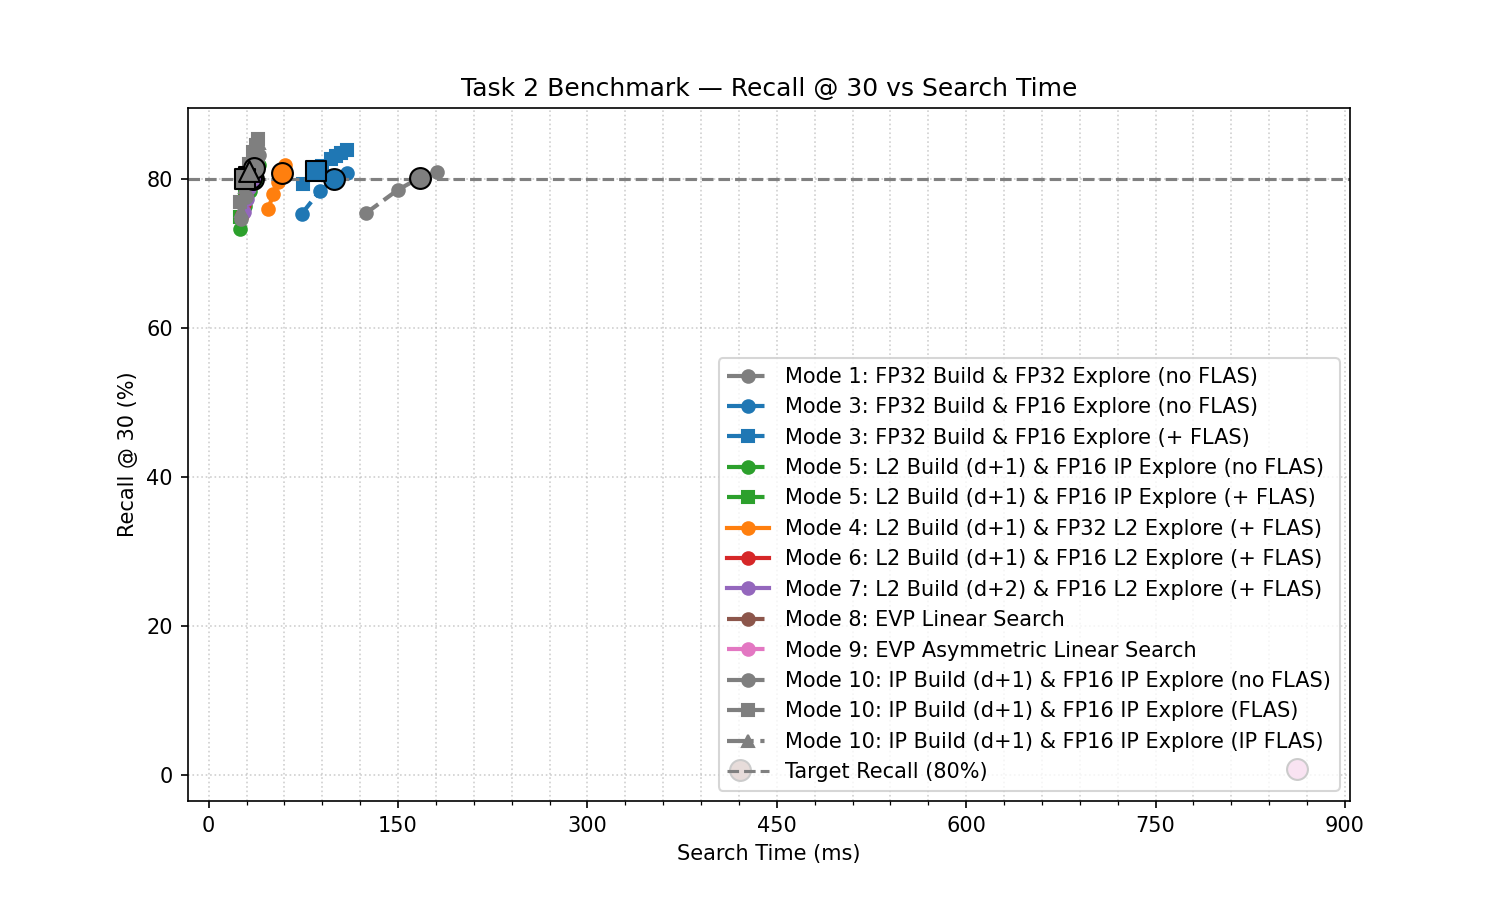
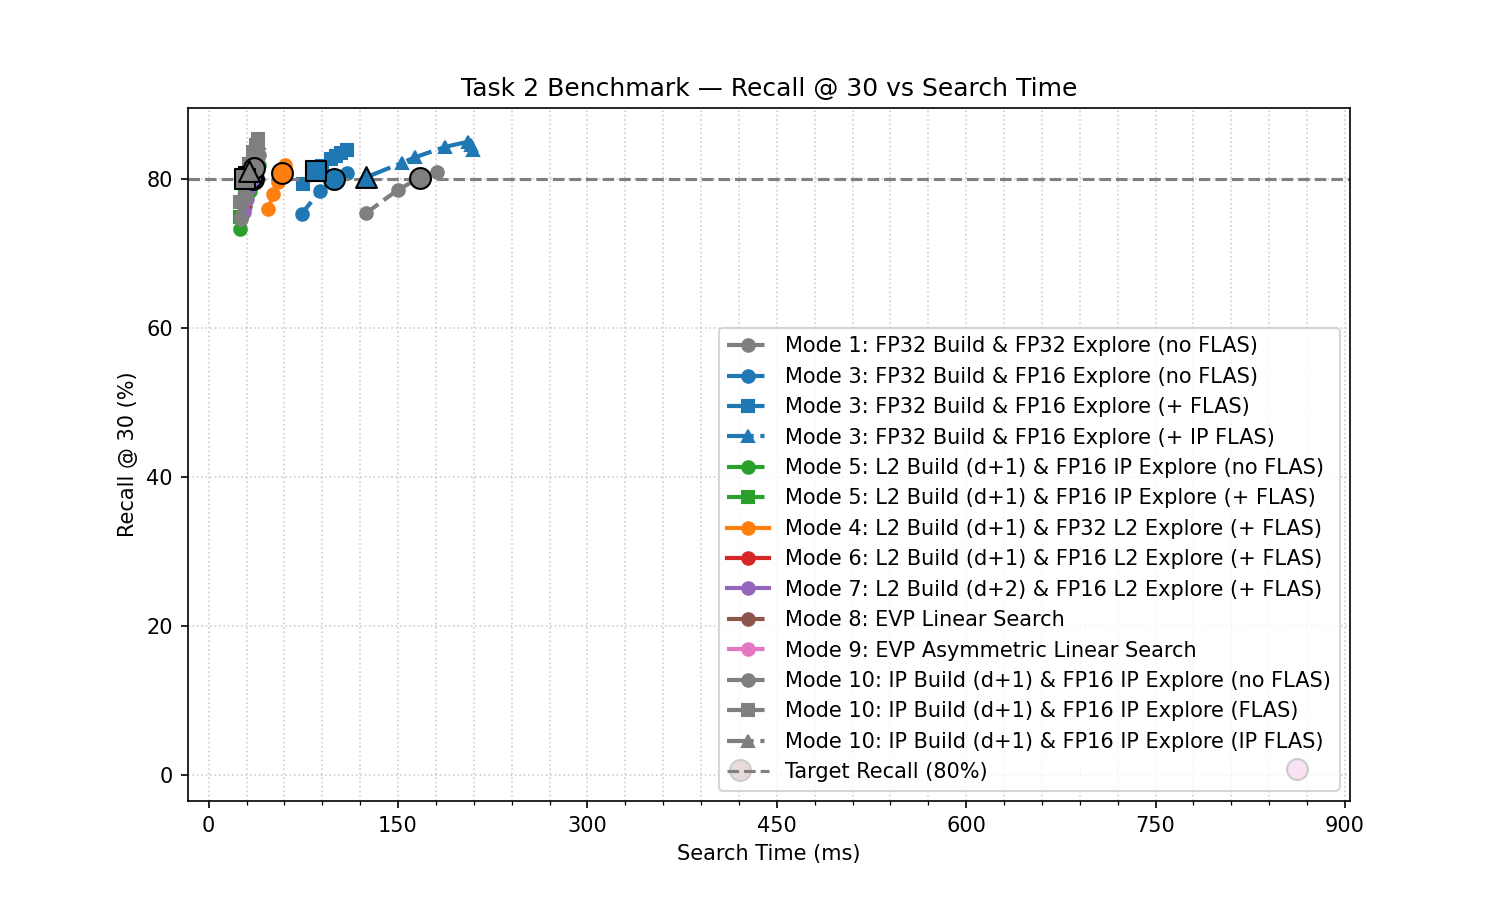
mode3 IP FLAS for Task2 tested on wrong hardware

Changed region(s): [[0.4907, 0.3733, 0.8587, 0.4356], [0.2147, 0.1556, 0.3373, 0.2178], [0.7667, 0.4356, 0.8587, 0.4978]]

diff --git a/python/benchmark_task2.py b/python/benchmark_task2.py
@@ -82,6 +82,16 @@ MODES: list[ModeConfig] = [
         use_flas=True,
     ),
     ModeConfig(
+        name="mode3_ip_flas",
+        mode="mode3",
+        label="Mode 3: FP32 Build & FP16 Explore (+ IP FLAS)",
+        settings="k_ext=64, k_graph=32, runs=3",
+        max_dist="15000,18000,20000,23000,25000,27000,30000",
+        eps_search="0.28",
+        use_flas=True,
+        flas_metric="innerproduct",
+    ),
+    ModeConfig(
         name="mode5_no_flas",
         mode="mode5",
         label="Mode 5: L2 Build (d+1) & FP16 IP Explore (no FLAS)",

diff --git a/python/results/benchmark/task2/table.md b/python/results/benchmark/task2/table.md
@@ -4,6 +4,7 @@
 |:---:|:---|:---|:---:|:---:|:---:|:---:|:---:|:---:|
 | mode3 | Mode 3: FP32 IP Build & FP16 IP Explore (no FLAS) | eps=0.25, max_dist=25000 | 0.06s | 19.50s | — | 19.80s | 99.60 ms | 80.10% |
 | mode3 | Mode 3: FP32 IP Build & FP16 IP Explore (+ L2 FLAS) | eps=0.28, max_dist=18000 | 0.06s | 22.40s | 38.90s | 22.60s | 84.90 ms | 81.10% |
+| mode3 | Mode 3: FP32 IP Build & FP16 IP Explore (+ IP FLAS) | eps=0.28, max_dist=15000 | 4.21s | 27.60s | 58.40s | 32.20s | 124.30 ms | 80.26% |
 | mode10 | Mode 10: FP32 IP Build (d+1) & FP16 IP Explore (no FLAS) | eps=0.18, max_dist=8000 | 0.06s | 25.60s | — | 25.90s | 35.70 ms | 81.50% |
 | mode10 | Mode 10: FP32 IP Build (d+1) & FP16 IP Explore (+ L2 FLAS) | eps=0.18, max_dist=6000 | 0.06s | 20.50s | 38.10s | 20.80s | 29.00 ms | 80.08% |
 | mode10 | Mode 10: FP32 IP Build (d+1) & FP16 IP Explore (+ IP FLAS) | eps=0.18, max_dist=7000 | 0.06s | 20.40s | 38.40s | 20.80s | 32.30 ms | 81.13% |